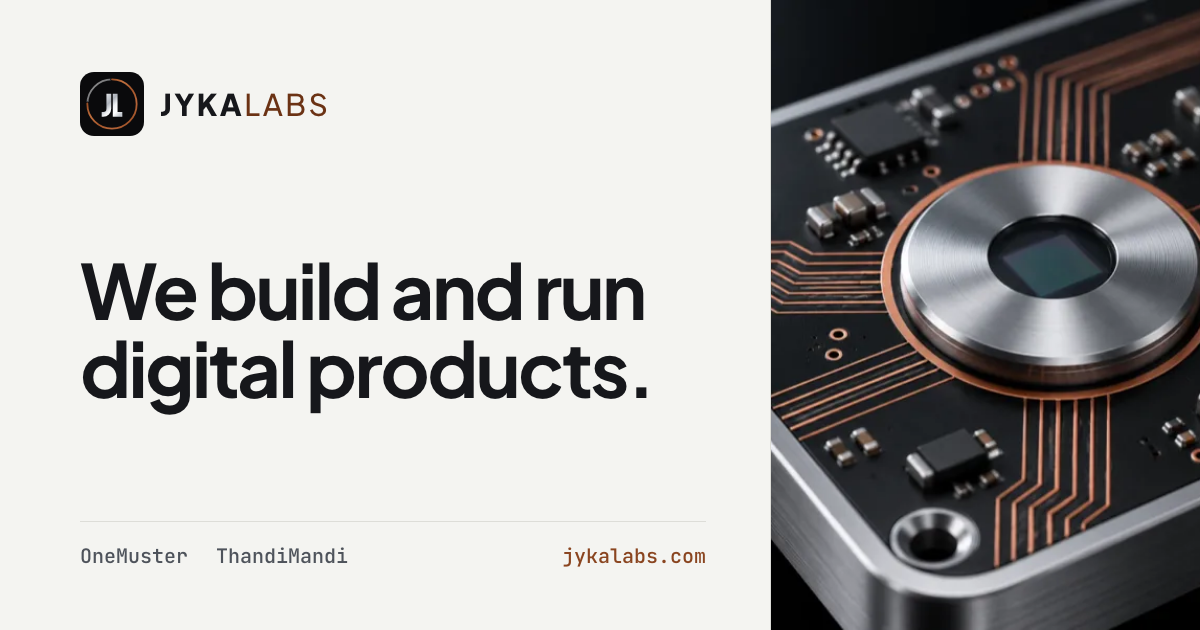
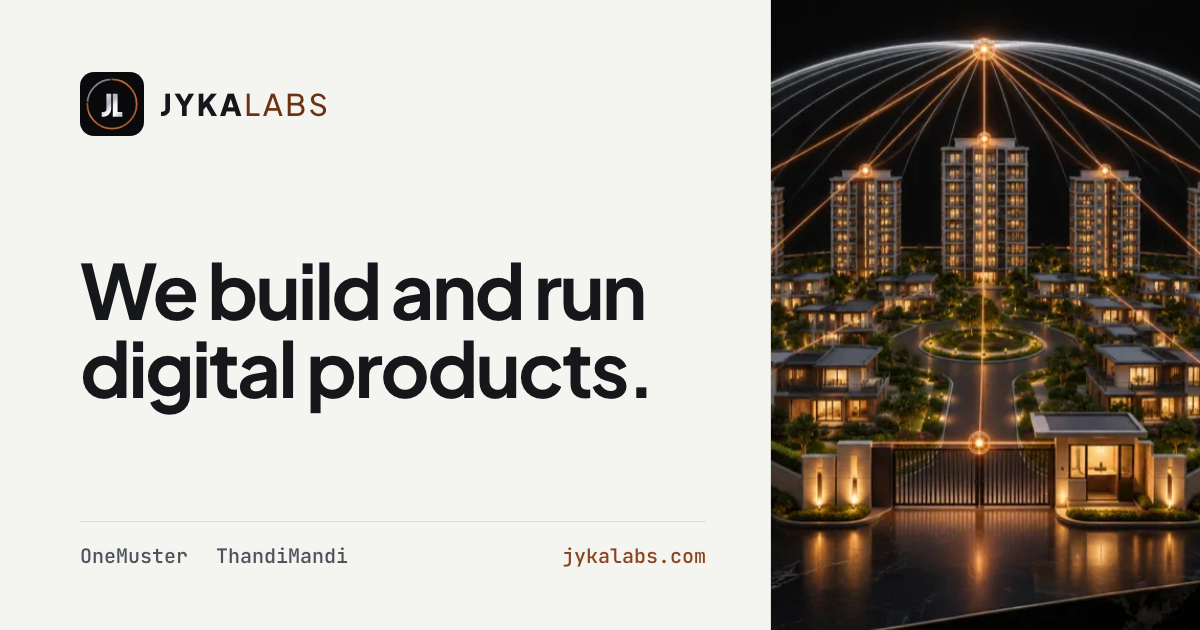
Product images that show each platform's idea
OneMuster: a connected, protected housing community; security work going
digital. ThandiMandi: a connected farm-to-market cold chain; produce as
digital twins. No text in any image. Copper-grid video kept.

Changed region(s): [[0.6167, 0.0, 1.0, 1.0], [0.6167, 0.0, 0.6783, 0.0302]]

diff --git a/docs/index.html b/docs/index.html
@@ -119,7 +119,7 @@
           <div class="stage-frame">
             <!-- Each product at a glance: the setting it serves, its name, status and one line. No feature detail by design. -->
             <div class="stage-panel" id="panel-om" role="tabpanel" aria-labelledby="tab-om">
-              <img class="stage-photo" src="media/circuit-1168.webp" srcset="media/circuit-800.webp 800w, media/circuit-1168.webp 1168w" sizes="(min-width: 1000px) 40rem, 100vw" width="1168" height="880" alt="" fetchpriority="high">
+              <img class="stage-photo" src="media/onemuster-hero-1168.webp" srcset="media/onemuster-hero-800.webp 800w, media/onemuster-hero-1168.webp 1168w" sizes="(min-width: 1000px) 40rem, 100vw" width="1168" height="880" alt="" fetchpriority="high">
               <div class="device">
                 <div class="device-head"><span class="device-app">OneMuster</span><span class="status">Early access</span></div>
                 <p class="device-line">Security and facility management for security agencies and housing societies.</p>
@@ -127,7 +127,7 @@
               </div>
             </div>
             <div class="stage-panel" id="panel-tm" role="tabpanel" aria-labelledby="tab-tm" hidden>
-              <img class="stage-photo" src="media/cooling-1168.webp" srcset="media/cooling-800.webp 800w, media/cooling-1168.webp 1168w" sizes="(min-width: 1000px) 40rem, 100vw" width="1168" height="880" alt="" loading="lazy">
+              <img class="stage-photo" src="media/thandimandi-hero-1168.webp" srcset="media/thandimandi-hero-800.webp 800w, media/thandimandi-hero-1168.webp 1168w" sizes="(min-width: 1000px) 40rem, 100vw" width="1168" height="880" alt="" loading="lazy">
               <div class="device">
                 <div class="device-head"><span class="device-app">ThandiMandi</span><span class="status status-quiet">In development</span></div>
                 <p class="device-line">A platform for India's refrigeration and cold-chain industry.</p>
@@ -147,7 +147,7 @@
         </div>
         <div class="bento">
           <article class="bento-card" data-reveal>
-            <div class="bento-media"><img src="media/cables-800.webp" srcset="media/cables-800.webp 800w, media/cables-1344.webp 1344w" sizes="(min-width: 900px) 42rem, 100vw" width="800" height="452" alt="" loading="lazy"></div>
+            <div class="bento-media"><img src="media/onemuster-card-800.webp" srcset="media/onemuster-card-800.webp 800w, media/onemuster-card-1344.webp 1344w" sizes="(min-width: 900px) 42rem, 100vw" width="800" height="452" alt="" loading="lazy"></div>
             <div class="bento-body">
               <div class="bento-top"><h3>OneMuster</h3><span class="status">Early access</span></div>
               <p class="bento-summary">Security and facility management for security agencies and the housing societies they serve.</p>
@@ -155,7 +155,7 @@
             </div>
           </article>
           <article class="bento-card is-narrow" data-reveal>
-            <div class="bento-media"><img src="media/rack-800.webp" srcset="media/rack-800.webp 800w, media/rack-1344.webp 1344w" sizes="(min-width: 900px) 30rem, 100vw" width="800" height="452" alt="" loading="lazy"></div>
+            <div class="bento-media"><img src="media/thandimandi-card-800.webp" srcset="media/thandimandi-card-800.webp 800w, media/thandimandi-card-1344.webp 1344w" sizes="(min-width: 900px) 30rem, 100vw" width="800" height="452" alt="" loading="lazy"></div>
             <div class="bento-body">
               <div class="bento-top"><h3>ThandiMandi</h3><span class="status status-quiet">In development</span></div>
               <p class="bento-summary">A platform for India's refrigeration and cold-chain industry.</p>

diff --git a/brand/og.html b/brand/og.html
@@ -11,7 +11,7 @@ body{display:grid;grid-template-columns:1fr 430px;background:var(--bg-canvas)}
 h1{margin:0;font:700 76px/1.02 var(--font-display);letter-spacing:-2.6px}
 .foot{display:flex;gap:28px;align-items:center;font:500 20px/1 var(--font-mono);color:var(--text-secondary);border-top:1px solid var(--border-hairline);padding-top:24px}
 .foot b{color:var(--accent-primary);font-weight:500;margin-left:auto}
-.r{background:url(../docs/media/circuit-800.webp) center/cover;border-left:1px solid var(--border-hairline)}
+.r{background:url(../docs/media/onemuster-hero-800.webp) center/cover;border-left:1px solid var(--border-hairline)}
 </style></head><body>
 <div class="l">
 <div class="brand"><img src="../docs/favicon.svg" alt=""><span class="brand-name">Jyka<span>Labs</span></span></div>

diff --git a/DESIGN.md b/DESIGN.md
@@ -37,9 +37,9 @@ Plus Jakarta Sans 600/700 at -0.03em for headings (hero -0.035em). Inter 400/500
 
 Technology still lifes in the logo's palette (obsidian, silver, copper), generated with Higgsfield on 16 Nov 2026 to replace the earlier building and street photos, which didn't read as a tech company (founder). GPT Image 2.6 for stills, Kling 3.0 for the clip. No people, screens, text or brand-like products. No captions on the page (founder, 16 Nov 2026).
 
-- Hero: `circuit` (OneMuster tab), `cooling` (ThandiMandi tab), WebP at 800 and 1168 wide.
-- Product cards: `cables` (OneMuster), `rack` (ThandiMandi), WebP at 800 and 1344.
-- Ambient band: `grid-loop.mp4` (960×540, 5 s, silent) over the `grid` still, which is also the poster under reduced motion or data saver.
+- OneMuster: `onemuster-hero` (a gated housing community under a connected dome of light), `onemuster-card` (a guard's cap, keys and register turning into a connected shield). WebP at 800 and 1168/1344.
+- ThandiMandi: `thandimandi-hero` (farm, cold store, refrigerated truck and market linked by light), `thandimandi-card` (produce crates in a cold room traced as digital twins). WebP at 800 and 1168/1344.
+- Ambient band: `grid-loop.mp4` (960×540, 5 s, silent) over the `grid` still, which is also the poster under reduced motion or data saver. Kept at the founder's request.
 
 ## Components
 
